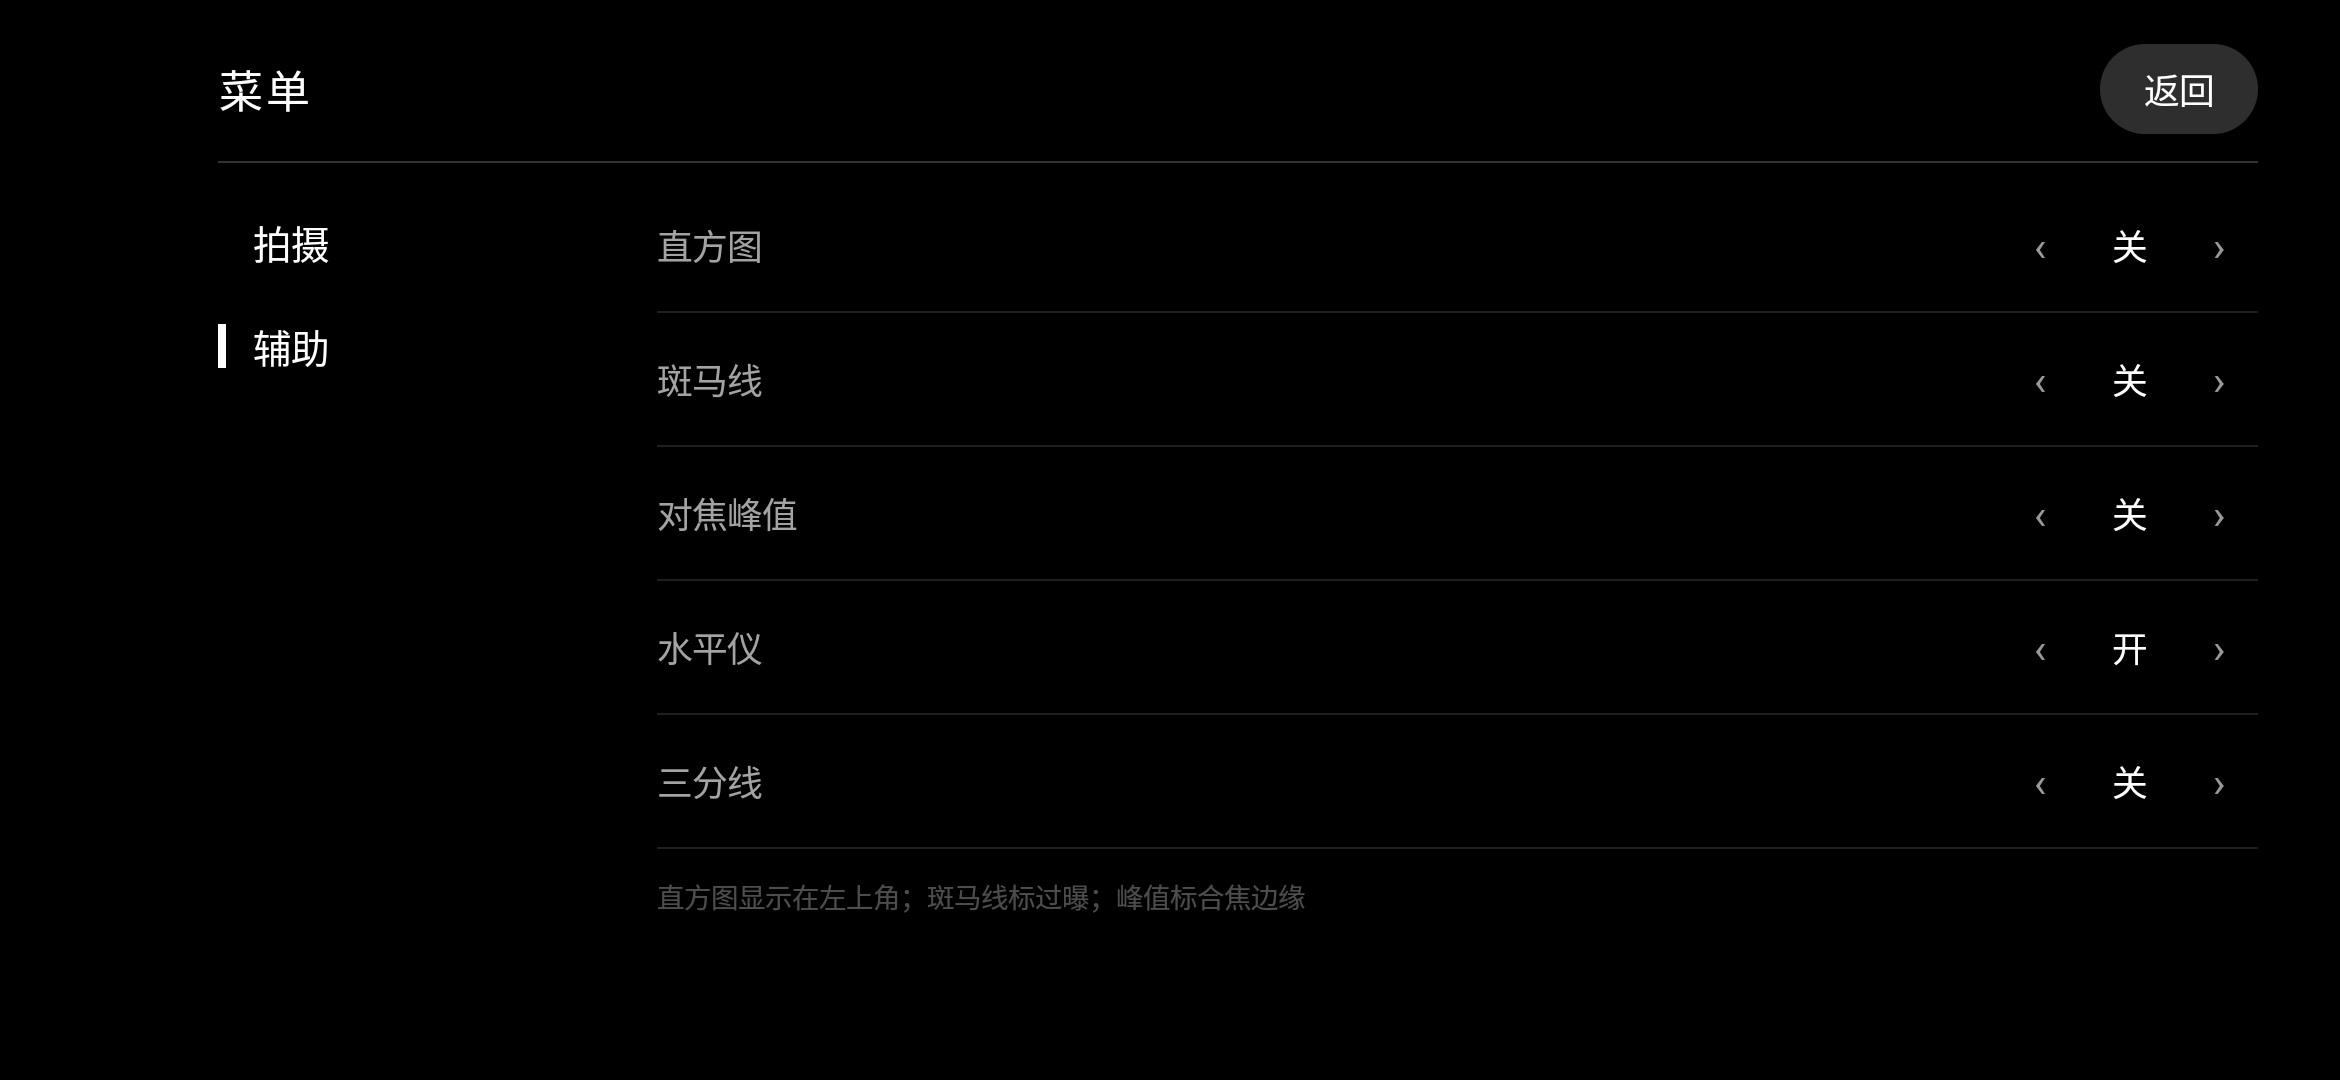
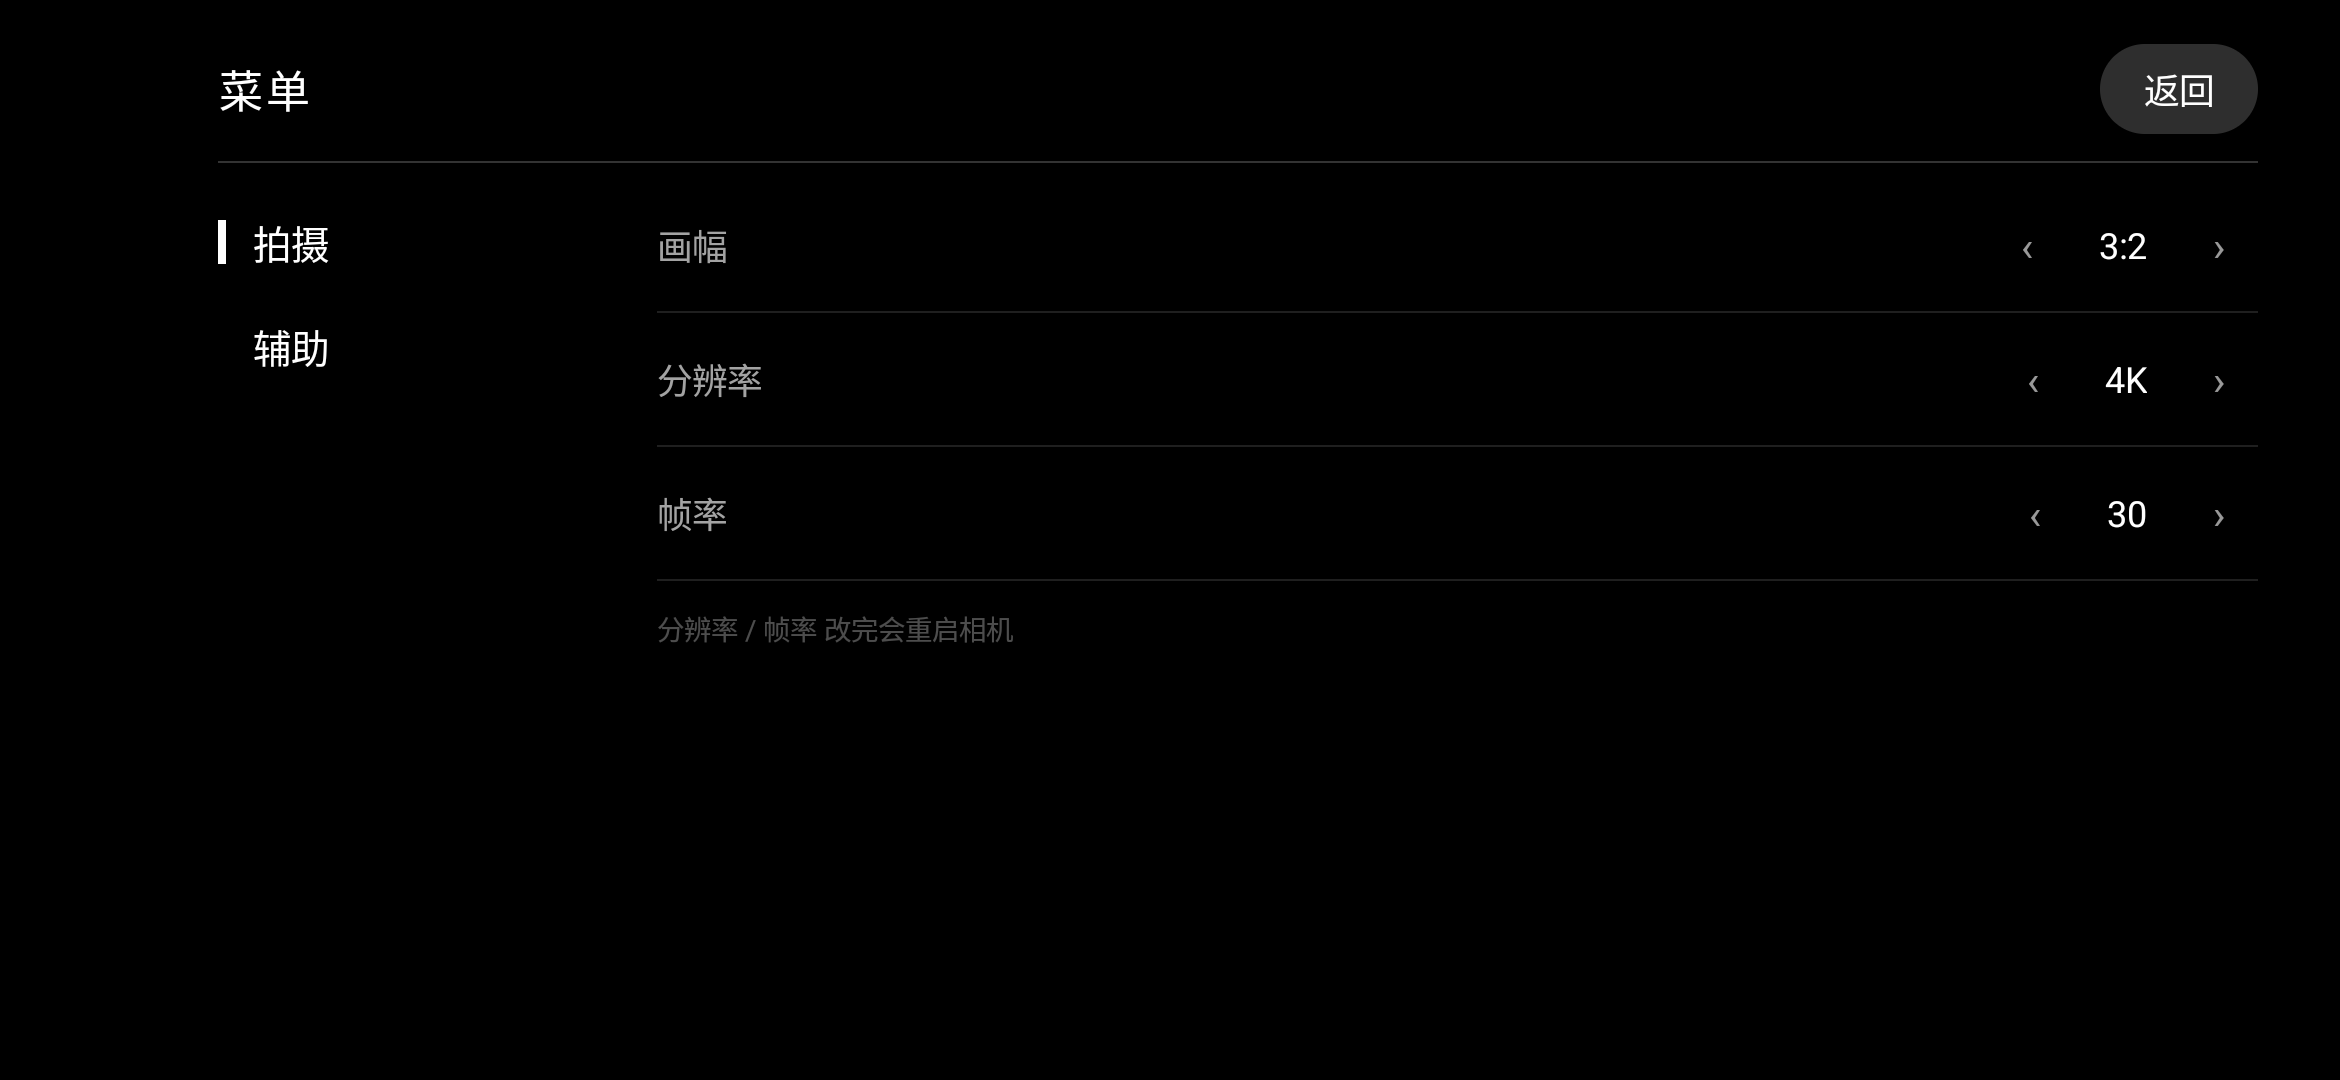
Lume: 菜单/波轮/分类切换加过渡动画；修掉点空白误关菜单

diff --git a/lume/app/src/main/java/com/magirri/lume/MainActivity.kt b/lume/app/src/main/java/com/magirri/lume/MainActivity.kt
@@ -758,13 +758,38 @@ class MainActivity : Activity() {
             else -> focusWheel
         }
         if (!w.isEnabled) return
-        wheels.forEach { it.visibility = if (it === w) View.VISIBLE else View.GONE }
+        // 其他轮子直接收掉（不animate，避免两个轮子叠着淡入淡出）
+        wheels.forEach {
+            if (it !== w) {
+                it.animate().cancel()
+                it.visibility = View.GONE
+                it.alpha = 1f
+                it.translationX = 0f
+            }
+        }
+        w.animate().cancel()
+        w.visibility = View.VISIBLE
+        w.alpha = 0f
+        w.translationX = dp(-12).toFloat()
+        w.animate().alpha(1f).translationX(0f).setDuration(220).start()
         openWheelKind = kind
         updateWheelButtons()
     }
 
     private fun closeWheel() {
-        wheels.forEach { it.visibility = View.GONE }
+        wheels.forEach { w ->
+            if (w.visibility == View.VISIBLE) {
+                w.animate().cancel()
+                w.animate().alpha(0f).translationX(dp(-12).toFloat()).setDuration(160)
+                    .withEndAction {
+                        w.visibility = View.GONE
+                        w.alpha = 1f
+                        w.translationX = 0f
+                    }.start()
+            } else {
+                w.visibility = View.GONE
+            }
+        }
         openWheelKind = -1
         updateWheelButtons()
     }
@@ -944,14 +969,43 @@ class MainActivity : Activity() {
 
     // ================= 设置页 =================
 
+    private var settingsOpenedAt = 0L
+
     private fun openSettings() {
-        if (::settingsPanel.isInitialized && settingsPanel.visibility == View.VISIBLE) {
-            settingsPanel.visibility = View.GONE
+        if (System.currentTimeMillis() - settingsOpenedAt < 350) return
+        if (!::settingsPanel.isInitialized) buildSettingsPanel()
+        val showing = settingsPanel.visibility == View.VISIBLE && settingsPanel.alpha > 0.6f
+        if (showing) {
+            settingsPanel.animate().cancel()
+            settingsPanel.animate().alpha(0f).translationY(dp(-10).toFloat())
+                .setDuration(180)
+                .withEndAction {
+                    settingsPanel.visibility = View.GONE
+                    settingsPanel.alpha = 1f
+                    settingsPanel.translationY = 0f
+                }.start()
             return
         }
-        if (!::settingsPanel.isInitialized) buildSettingsPanel()
-        settingsPanel.visibility = View.VISIBLE
+        settingsOpenedAt = System.currentTimeMillis()
         refreshSettings()
+        settingsPanel.animate().cancel()
+        settingsPanel.visibility = View.VISIBLE
+        settingsPanel.alpha = 0f
+        settingsPanel.translationY = dp(12).toFloat()
+        settingsPanel.animate().alpha(1f).translationY(0f).setDuration(240).start()
+    }
+
+    /** 一级菜单切换：右侧内容淡入 */
+    private fun crossFade(show: View, hide: View) {
+        hide.animate().cancel()
+        hide.animate().alpha(0f).setDuration(110).withEndAction {
+            hide.visibility = View.GONE
+            hide.alpha = 1f
+        }.start()
+        show.animate().cancel()
+        show.visibility = View.VISIBLE
+        show.alpha = 0f
+        show.animate().alpha(1f).setDuration(200).start()
     }
 
     private fun refreshSettings() {
@@ -1168,13 +1222,11 @@ class MainActivity : Activity() {
 
         // 一级菜单切换
         catShoot.setOnClickListener {
-            shootPage.visibility = View.VISIBLE
-            assistPage.visibility = View.GONE
+            if (shootPage.visibility != View.VISIBLE) crossFade(shootPage, assistPage)
             setCategoryBar(catShoot, catAssist)
         }
         catAssist.setOnClickListener {
-            shootPage.visibility = View.GONE
-            assistPage.visibility = View.VISIBLE
+            if (assistPage.visibility != View.VISIBLE) crossFade(assistPage, shootPage)
             setCategoryBar(catAssist, catShoot)
         }
         setCategoryBar(catShoot, catAssist)
